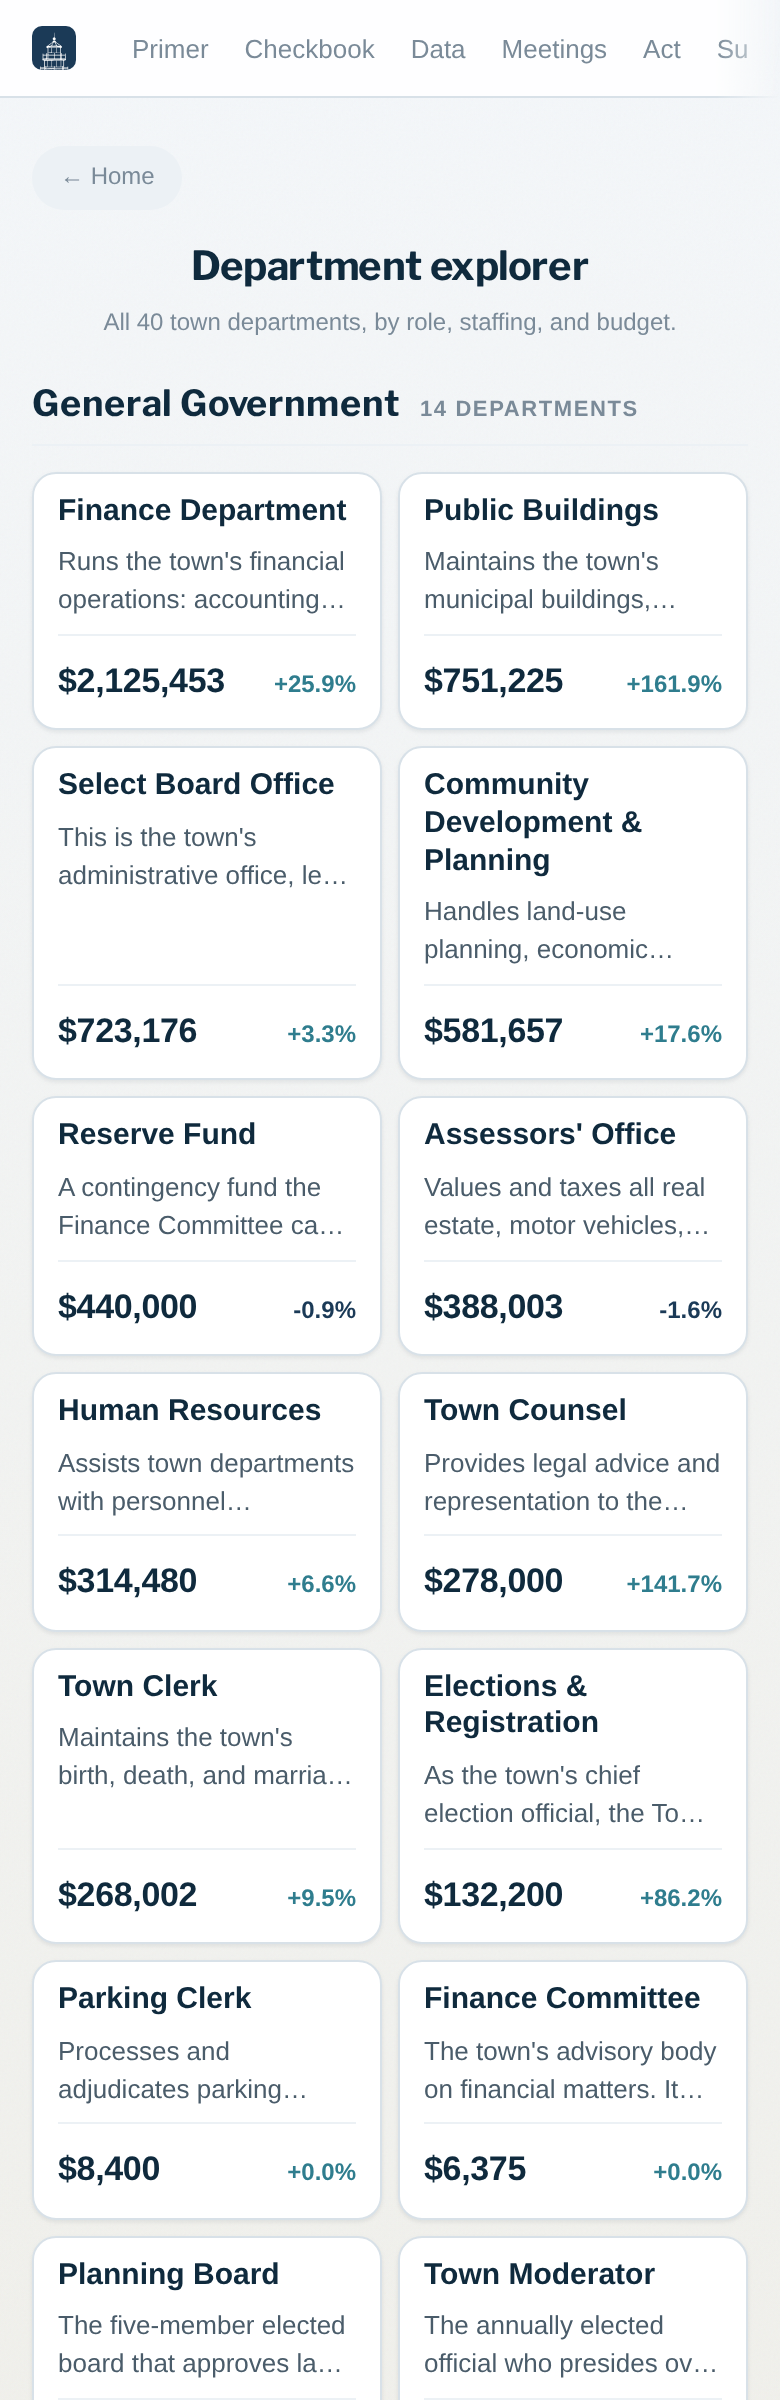
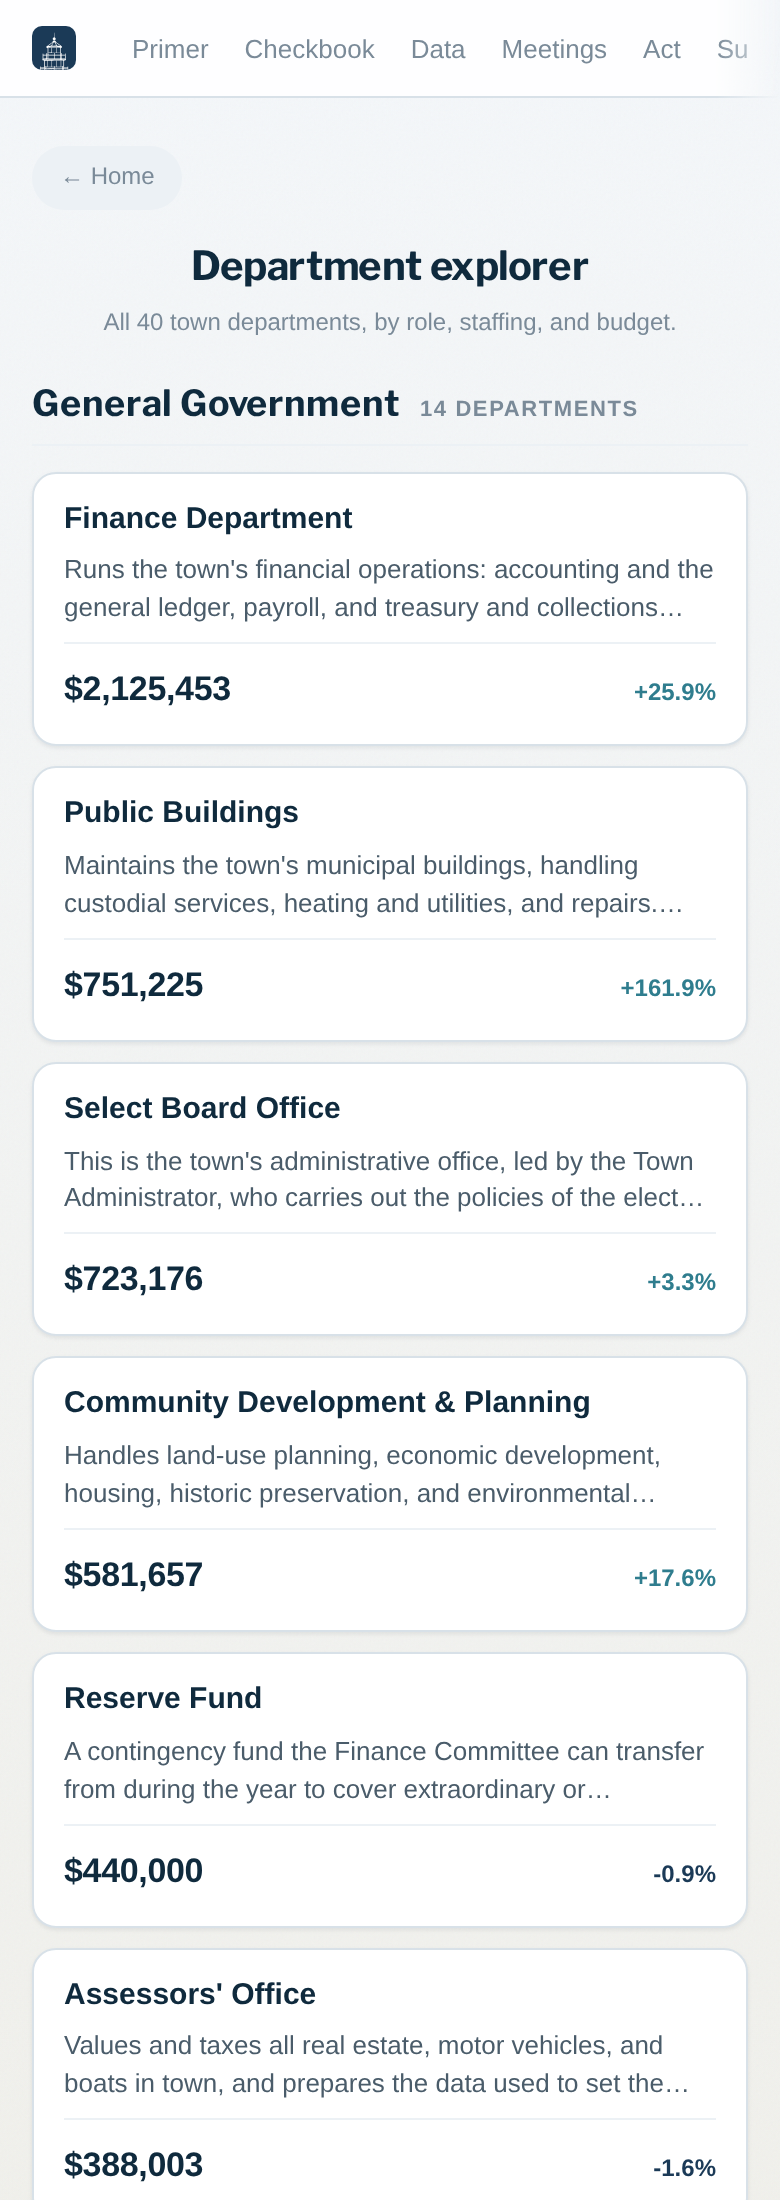
design: finish the index — descriptive cards, aligned footers, group counts
The landing grid was just name + number + percent, with uneven heights and empty
space. Now each card shows a 2-line 'what it does' (every department has one),
with the budget and change pinned to an aligned footer below a hairline so cards
line up; group headers carry a department count and a divider; hover lifts the
card. Single column on phones so descriptions stay readable.

diff --git a/departments.html b/departments.html
@@ -129,8 +129,6 @@ og_url: https://marbleheaddata.org/departments.html
     }
     .dx-money th:nth-child(4), .dx-money td:nth-child(4) { display: none; }
     .dx-chg-inline { display: block; font-size: 0.625rem; font-weight: 400; margin-top: 1px; }
-    /* One card per row on phones so the descriptions stay readable. */
-    .dx-cards { grid-template-columns: 1fr; }
   }
 
   /* ---- Profile layout: header, stat tiles, section cards ---- */
@@ -185,8 +183,8 @@ og_url: https://marbleheaddata.org/departments.html
   .dx-block--sources .dx-block-hd { color: var(--text-subtle); }
 
   @media (max-width: 600px) {
-    .dx-cards { grid-template-columns: repeat(auto-fill, minmax(150px, 1fr)); gap: 8px; }
-    .dx-card { padding: 10px 12px; }
+    /* One card per row on phones so the descriptions stay readable. */
+    .dx-cards { grid-template-columns: 1fr; gap: 10px; }
   }
 </style>
 
